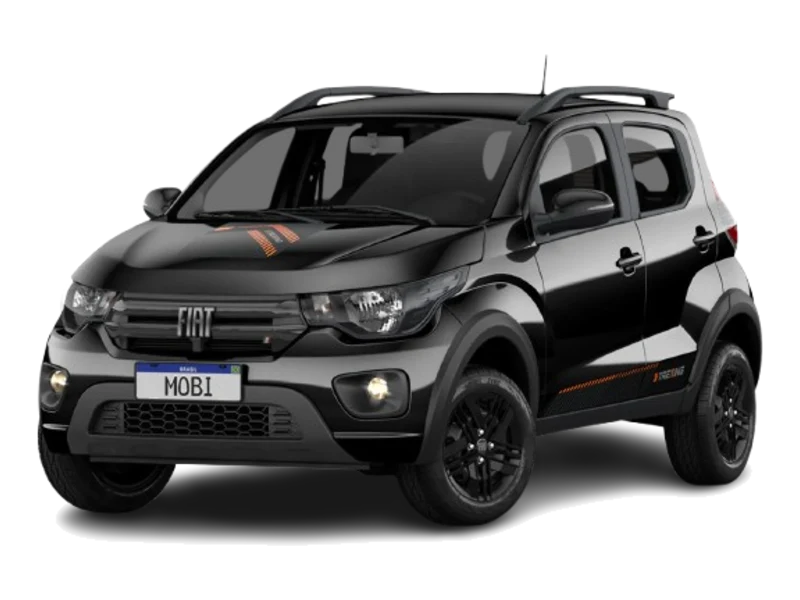
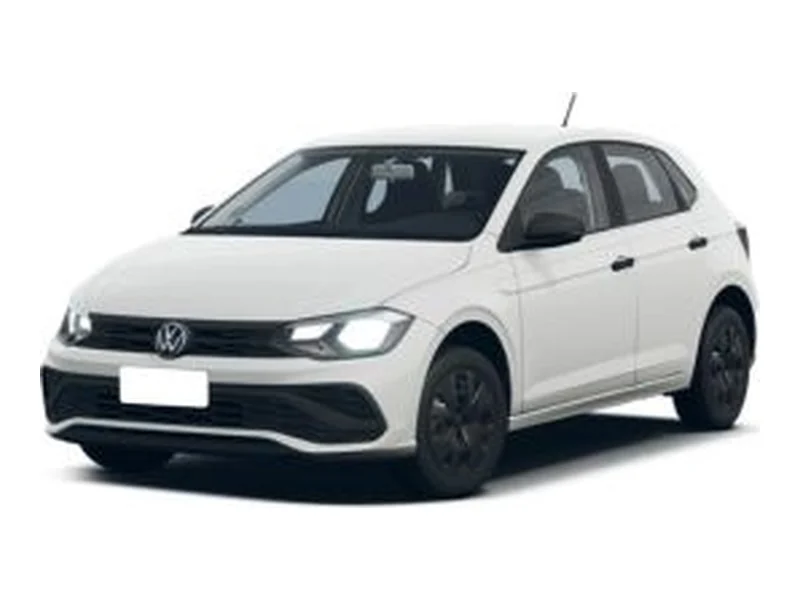
feat(frota): fotos do SGLOC por grupo, com modelo e categoria
O site passa a usar as fotos que a Locafacil cadastrou no sistema, uma por
grupo (Mobi, Polo, Onix Plus, Onix Plus, Strada, Basalt e Tera), em placa
branca no card: recortar carro branco de fundo branco num JPEG de 366x192
comia a lataria e deixava franja. Sao provisorias ate chegarem os originais
em alta.

Modelo e categoria de cada grupo moram em src/config/vehiclePhotos.js, porque
a loja real so manda "GRUPO - B". A legenda vira "Mobi ou similar", o rotulo
do card mostra a categoria e a descricao que so repete o nome do grupo some.
As fixtures passam a espelhar a loja real.

diff --git a/src/config/vehiclePhotos.js b/src/config/vehiclePhotos.js
@@ -1,25 +1,22 @@
-/* Foto por grupo de veículo.
+/* Foto e modelo de referência por grupo de veículo.
  *
- * A API da JCompany não devolve imagem: a disponibilidade traz código ACRISS,
- * descrição e preço, e nada de mídia. Então a foto é nossa.
+ * As fotos são as que a Locafácil cadastrou no SGLOC: a disponibilidade da API
+ * traz `VehicleURLPhoto` em cada grupo, e o modelo sai do nome do arquivo que
+ * está lá (mobi_pronto.jpg, polo_pronto.jpg...). A descrição do grupo na API é
+ * só "GRUPO - B", então o modelo mora aqui, junto da foto que o representa.
  *
- * O grupo manda no arquivo, não o modelo. A API diz "Kwid ou similar" — a foto
- * mostra o Kwid porque é o representante daquele grupo, e a legenda avisa que
- * é ilustrativa. D PLUS e G usam a mesma foto de propósito: as duas descrições
- * dizem "Pulse ou similar", e inventar carro diferente para cada uma seria
- * prometer o que o contrato não separa.
+ * São PROVISÓRIAS (reunião de 29/09/2026): no SGLOC elas têm 366×192, boas no
+ * celular e moles numa tela grande. Ficam sobre fundo branco, como chegaram —
+ * recortar carro branco de fundo branco num JPEG desse tamanho come a lataria
+ * e deixa franja no card escuro. Quando o Marcelo mandar os originais em alta:
  *
- * PARA TROCAR UMA FOTO
- *
- *   1. PNG com fundo branco ou transparente, carro em três quartos, em
- *      `public/__tmp-veiculos/<CODIGO>.png` (B, C, D, DP, E, G, GP).
+ *   1. PNG em `public/__tmp-veiculos/<CODIGO>.png` (B, C, D, DP, E, G, GP).
  *   2. `node scripts/converter-veiculos.mjs` — recorta a moldura vazia, apaga
  *      o fundo e normaliza tudo em 800×600 sobre transparente.
- *   3. Apague `public/__tmp-veiculos/`.
+ *   3. Apague `public/__tmp-veiculos/` e tire o `fundo: 'branco'` daqui.
  *
- * A normalização não é capricho: as fotos chegaram em 623×401, 667×374 e
- * 1100×628. Postas direto no card, cada uma ocuparia uma altura e a grade
- * dançaria de linha em linha.
+ * O grupo manda no arquivo, não o modelo: a reserva é por grupo, e a legenda
+ * avisa que a imagem é ilustrativa.
  */
 
 import grupoB from '../assets/veiculos/grupo-b.webp'
@@ -30,18 +27,19 @@ import grupoE from '../assets/veiculos/grupo-e.webp'
 import grupoG from '../assets/veiculos/grupo-g.webp'
 import grupoGP from '../assets/veiculos/grupo-gp.webp'
 
-/** Código do grupo (ACRISS) → foto. Grupo fora daqui cai na ilustração. */
+/** Código do grupo (ACRISS) → foto, modelo e categoria. A categoria cobre a
+    loja real, que não manda VehType. Grupo fora daqui cai na ilustração. */
 export const VEHICLE_PHOTOS = {
-  B: grupoB,   // Kwid ou similar
-  C: grupoC,   // Mobi ou similar
-  D: grupoD,   // Argo ou similar
-  DP: grupoDP, // Pulse ou similar
-  E: grupoE,   // Cronos ou similar
-  G: grupoG,   // Pulse ou similar
-  GP: grupoGP, // Fastback ou similar
+  B: { foto: grupoB, modelo: 'Mobi', categoria: 'Econômico', fundo: 'branco' },
+  C: { foto: grupoC, modelo: 'Polo', categoria: 'Hatch', fundo: 'branco' },
+  D: { foto: grupoD, modelo: 'Onix Plus', categoria: 'Sedã', fundo: 'branco' },
+  DP: { foto: grupoDP, modelo: 'Onix Plus', categoria: 'Sedã', fundo: 'branco' },
+  E: { foto: grupoE, modelo: 'Strada', categoria: 'Picape', fundo: 'branco' },
+  G: { foto: grupoG, modelo: 'Basalt', categoria: 'SUV', fundo: 'branco' },
+  GP: { foto: grupoGP, modelo: 'Tera', categoria: 'SUV', fundo: 'branco' },
 }
 
 export function photoFor(groupCode) {
   if (!groupCode) return null
-  return VEHICLE_PHOTOS[String(groupCode).toUpperCase()] ?? null
+  return VEHICLE_PHOTOS[String(groupCode).trim().toUpperCase()] ?? null
 }

diff --git a/src/content/documentacao.js b/src/content/documentacao.js
@@ -125,7 +125,7 @@ export const DADOS_TESTE = [
   },
   {
     tela: 'Veículo',
-    campos: [['Grupo', 'D — Argo ou similar']],
+    campos: [['Grupo', 'D — Onix Plus ou similar']],
     dica: 'Qualquer grupo funciona. O D fica no meio da tabela e deixa a diferença da proteção bem visível.',
   },
   {
@@ -230,13 +230,13 @@ export const ETAPAS = [
 ]
 
 export const GRUPOS = [
-  { codigo: 'B', perfil: 'Econômico 1.0 — Kwid ou similar', cambio: 'Manual', total: 260 },
-  { codigo: 'C', perfil: 'Econômico 1.0 — Mobi ou similar', cambio: 'Manual', total: 300 },
-  { codigo: 'D', perfil: 'Hatch 1.0 completo — Argo ou similar', cambio: 'Manual', total: 320 },
-  { codigo: 'D PLUS', perfil: 'Hatch 1.0 turbo — Pulse ou similar', cambio: 'Automático', total: 340 },
-  { codigo: 'E', perfil: 'Sedan 1.3 completo — Cronos ou similar', cambio: 'Manual', total: 380 },
-  { codigo: 'G', perfil: 'SUV compacto 1.0 turbo — Pulse ou similar', cambio: 'Automático', total: 380 },
-  { codigo: 'G PLUS', perfil: 'SUV 1.0 turbo completo — Fastback ou similar', cambio: 'Automático', total: 440 },
+  { codigo: 'B', perfil: 'Econômico — Mobi ou similar', cambio: 'Manual', total: 260 },
+  { codigo: 'C', perfil: 'Hatch — Polo ou similar', cambio: 'Manual', total: 300 },
+  { codigo: 'D', perfil: 'Sedã — Onix Plus ou similar', cambio: 'Manual', total: 320 },
+  { codigo: 'D PLUS', perfil: 'Sedã automático — Onix Plus ou similar', cambio: 'Automático', total: 340 },
+  { codigo: 'E', perfil: 'Picape — Strada ou similar', cambio: 'Manual', total: 380 },
+  { codigo: 'G', perfil: 'SUV automático — Basalt ou similar', cambio: 'Automático', total: 380 },
+  { codigo: 'G PLUS', perfil: 'SUV automático — Tera ou similar', cambio: 'Automático', total: 440 },
 ]
 
 export const PROTECOES = [
@@ -278,9 +278,9 @@ export const API_NAO_ENTREGA = [
     titulo: 'Foto do carro',
     responsavel: 'Resolvido por nós',
     linhas: [
-      ['O que falta', 'A reserva é por grupo, não por modelo, e o sistema não devolve imagem nenhuma.'],
-      ['Como resolvemos', 'Uma foto por grupo, do modelo que a própria descrição cita, com legenda avisando que é ilustrativa.'],
-      ['Observação', 'D PLUS e G usam a mesma foto de propósito: as duas descrições dizem “Pulse ou similar”.'],
+      ['O que falta', 'A reserva é por grupo, não por modelo. O sistema da loja devolve uma foto por grupo, mas pequena (366×192).'],
+      ['Como resolvemos', 'O site já usa as fotos que a Locafácil cadastrou no sistema, uma por grupo, com legenda avisando que é ilustrativa.'],
+      ['Observação', 'Boas no celular, moles numa tela grande. Com os originais em alta resolução, trocamos sem mexer em mais nada.'],
     ],
   },
   {
@@ -542,7 +542,7 @@ COMO TESTAR — DADOS FICTÍCIOS, TELA A TELA
 Pode clicar à vontade: nada vira reserva de verdade.
 
 1. Busca — Loja LOCAFACIL NOVA IGUAÇU, devolução no mesmo local. Retirada em 05/10/2026 às 09:00; devolução em 07/10/2026 às 09:00.
-2. Veículo — Grupo D (Argo ou similar).
+2. Veículo — Grupo D (Onix Plus ou similar).
 3. Proteção — escolha a Básico e depois troque para a Completa. É aqui o upsell: em duas diárias a proteção vai de R$ 60,00 para R$ 190,00, e a tela mostra o total mudar na hora.
 4. Dados do condutor — Joana Ribeiro · (21) 91234-5678 · joana.teste@example.com · CPF 529.982.247-25 · Rua das Palmeiras, 240 - Centro, Apto 402 · Nova Iguaçu/RJ.
 5. Revisão — marque "Li e aceito" e clique em Confirmar pré-reserva.

diff --git a/api/_lib/mockData.js b/api/_lib/mockData.js
@@ -22,15 +22,17 @@ export const mockMinimumNotice = { antecedencia_minima: 48 }
 export const mockMinimumPeriod = { periodo_minimo_horas: 48, tempo_informacao: 'horas' }
 
 // Totais observados para 2 diárias; a diária é derivada.
+// A descrição repete o nome do grupo, como a loja real manda ("GRUPO - B"):
+// o modelo de referência e a foto moram em src/config/vehiclePhotos.js.
 const GRUPOS = [
-  { code: 'B', nome: 'GRUPO - B', total2d: 260, transmissao: 'Manual', porte: 'Compacto', categoria: 'Econômico', descricao: 'Econômico 1.0 com Ar e Direção - Kwid ou similar' },
-  { code: 'C', nome: 'GRUPO - C', total2d: 300, transmissao: 'Manual', porte: 'Compacto', categoria: 'Econômico', descricao: 'Econômico 1.0 com Ar e Direção - Mobi ou similar' },
-  { code: 'D', nome: 'GRUPO - D', total2d: 320, transmissao: 'Manual', porte: 'Compacto', categoria: 'Hatch', descricao: 'Hatch 1.0 completo - Argo ou similar' },
-  { code: 'DP', nome: 'GRUPO - D PLUS', total2d: 340, transmissao: 'Automático', porte: 'Compacto', categoria: 'Hatch', descricao: 'Hatch 1.0 turbo automático - Pulse ou similar' },
-  { code: 'E', nome: 'GRUPO - E', total2d: 380, transmissao: 'Manual', porte: 'Médio', categoria: 'Sedan', descricao: 'Sedan 1.3 completo - Cronos ou similar' },
-  { code: 'G', nome: 'GRUPO - G', total2d: 380, transmissao: 'Automático', porte: 'Médio', categoria: 'SUV', descricao: 'SUV compacto 1.0 turbo - Pulse ou similar' },
-  { code: 'GP', nome: 'GRUPO - G PLUS', total2d: 440, transmissao: 'Automático', porte: 'Médio', categoria: 'SUV', descricao: 'SUV compacto 1.0 turbo completo - Fastback ou similar' },
-]
+  { code: 'B', nome: 'GRUPO - B', total2d: 260, transmissao: 'Manual', porte: 'Compacto', categoria: 'Econômico' },
+  { code: 'C', nome: 'GRUPO - C', total2d: 300, transmissao: 'Manual', porte: 'Compacto', categoria: 'Hatch' },
+  { code: 'D', nome: 'GRUPO - D', total2d: 320, transmissao: 'Manual', porte: 'Compacto', categoria: 'Sedã' },
+  { code: 'DP', nome: 'GRUPO - D PLUS', total2d: 340, transmissao: 'Automático', porte: 'Compacto', categoria: 'Sedã' },
+  { code: 'E', nome: 'GRUPO - E', total2d: 380, transmissao: 'Manual', porte: 'Médio', categoria: 'Picape' },
+  { code: 'G', nome: 'GRUPO - G', total2d: 380, transmissao: 'Automático', porte: 'Médio', categoria: 'SUV' },
+  { code: 'GP', nome: 'GRUPO - G PLUS', total2d: 440, transmissao: 'Automático', porte: 'Médio', categoria: 'SUV' },
+].map((grupo) => ({ ...grupo, descricao: grupo.nome }))
 
 // Diárias/dia observadas no portal, com as descrições longas de "Ver mais".
 const COBERTURAS = [

diff --git a/src/pages/Reservar/Veiculos/Index.jsx b/src/pages/Reservar/Veiculos/Index.jsx
@@ -6,6 +6,7 @@ import Footer from '../../../components/Footer/Index'
 import StepProgress from '../StepProgress'
 import TripSummary from '../TripSummary'
 import VehicleImage from '../VehicleImage'
+import { photoFor } from '../../../config/vehiclePhotos'
 import Dialog from '../Dialog'
 import Price from '../Price'
 import { useReservation } from '../../../context/ReservationContext'
@@ -287,14 +288,14 @@ export default function ReservarVeiculos() {
                 >
                   {visible.map((offer) => (
                     <motion.article key={offer.id} variants={fadeInUp} className="glass rounded-2xl p-6 flex flex-col">
-                      <p className="type-label text-text-secondary mb-2">{offer.category || 'Grupo'}</p>
+                      <p className="type-label text-text-secondary mb-2">{offer.category || photoFor(offer.groupCode)?.categoria || 'Grupo'}</p>
                       <h2 className="type-subtitle text-text-primary mb-4">{offer.groupName}</h2>
 
                       <div className="text-text-primary/80 mb-4 px-2">
                         <VehicleImage offer={offer} />
                       </div>
 
-                      <p className="type-meta text-text-secondary mb-5">{offer.description}</p>
+                      {offer.description && <p className="type-meta text-text-secondary mb-5">{offer.description}</p>}
 
                       <ul className="grid grid-cols-2 gap-x-3 gap-y-2.5 mb-6 type-meta text-text-secondary">
                         <li className="flex items-center gap-2">
@@ -394,7 +395,7 @@ function OfferDetails({ offer, days }) {
 
   return (
     <>
-      <p className="type-body text-text-muted text-sm mb-6">{offer.description}</p>
+      {offer.description && <p className="type-body text-text-muted text-sm mb-6">{offer.description}</p>}
 
       <h3 className="type-label text-text-muted mb-3">Características incluídas</h3>
       <dl className="grid grid-cols-2 gap-x-6 gap-y-2.5 mb-8">

diff --git a/src/pages/Reservar/VehicleImage.jsx b/src/pages/Reservar/VehicleImage.jsx
@@ -10,25 +10,28 @@ import { photoFor } from '../../config/vehiclePhotos'
  * este, então trocar ilustração por foto é editar um objeto — nenhuma tela
  * precisa saber qual dos dois está no ar.
  *
+ * Foto com fundo branco ganha uma placa branca arredondada: no card escuro,
+ * é ela que faz o fundo da foto parecer moldura e não um retângulo colado.
+ *
  * A legenda "imagem ilustrativa" acompanha os dois casos de propósito: a
  * reserva é por grupo, e nem a foto da frota garante o modelo que vai estar
  * no pátio no dia.
  */
 export default function VehicleImage({ offer, className = '', legenda = true }) {
-  const foto = photoFor(offer?.groupCode)
-  const porte = carroceriaDe(offer).nome
+  const cadastro = photoFor(offer?.groupCode)
+  const rotulo = cadastro?.modelo ? `${cadastro.modelo} ou similar` : carroceriaDe(offer).nome
 
   return (
     <figure className={className}>
-      {foto ? (
+      {cadastro ? (
         <img
-          src={foto}
+          src={cadastro.foto}
           alt=""
           width={800}
           height={600}
           loading="lazy"
           decoding="async"
-          className="w-full h-auto object-contain"
+          className={`w-full h-auto object-contain ${cadastro.fundo === 'branco' ? 'bg-white rounded-xl' : ''}`}
         />
       ) : (
         <VehicleArt offer={offer} />
@@ -38,8 +41,8 @@ export default function VehicleImage({ offer, className = '', legenda = true }) 
           carrega informação ("ilustrativa") e precisa de contraste de texto,
           não de enfeite. */}
       {legenda && (
-        <figcaption className="type-meta text-text-secondary text-center mt-1">
-          {porte} · imagem ilustrativa
+        <figcaption className="type-meta text-text-secondary text-center mt-2">
+          {rotulo} · imagem ilustrativa
         </figcaption>
       )}
     </figure>

diff --git a/api/_lib/otaNormalize.js b/api/_lib/otaNormalize.js
@@ -62,6 +62,7 @@ const BROKEN_WORDS = [
   [/Padr\?o/g, 'Padrão'],
   [/padr\?o/g, 'padrão'],
   [/Ju\?/g, 'Juí'],
+  [/Sed\?(?!\p{L})/gu, 'Sedã'],
   [/IGUA\?U/g, 'IGUAÇU'],
   [/Igua\?u/g, 'Iguaçu'],
 ]
@@ -228,11 +229,11 @@ function normalizeVehicle(vehicle = {}) {
   const groupName = fixText(makeModel.Name) || fixText(vehicle.Description) || groupCode
 
   // Quando a descrição é só o rótulo do grupo ("GRUPO - D"), repeti-la embaixo
-  // do título não diz nada; o motor diz.
+  // do título não diz nada; o motor diz. Sem motor, fica vazia e a tela omite.
   let description = fixText(vehicle.Description)
-  if (description === groupName && vehicle.MotorLiters) {
+  if (description === groupName) {
     const motor = fixText(vehicle.MotorType).toLowerCase()
-    description = `Motor ${fixText(vehicle.MotorLiters)}${motor ? ` ${motor}` : ''}`
+    description = vehicle.MotorLiters ? `Motor ${fixText(vehicle.MotorLiters)}${motor ? ` ${motor}` : ''}` : ''
   }
 
   return {

diff --git a/src/pages/Reservar/Revisao/Index.jsx b/src/pages/Reservar/Revisao/Index.jsx
@@ -107,7 +107,7 @@ export default function ReservarRevisao() {
                 </div>
                 <div className="min-w-0">
                   <p className="type-subtitle text-text-dark">{offer.groupName}</p>
-                  <p className="type-meta text-text-muted mt-1">{offer.description}</p>
+                  {offer.description && <p className="type-meta text-text-muted mt-1">{offer.description}</p>}
                   <p className="type-meta text-text-muted mt-1">
                     {offer.transmission} · {offer.passengers} pessoas · {offer.kmPolicy.label}
                   </p>

diff --git a/src/pages/Reservar/lib/carroceria.js b/src/pages/Reservar/lib/carroceria.js
@@ -42,7 +42,7 @@ const CARROCERIAS = {
    A ordem importa — "SUV compacto" tem as duas palavras, e SUV vence. */
 export function carroceriaDe(offer) {
   const texto = `${offer?.category ?? ''} ${offer?.description ?? ''} ${offer?.size ?? ''}`.toLowerCase()
-  if (/\bsuv\b|utilit|pick[- ]?up|crossover/.test(texto)) return CARROCERIAS.suv
+  if (/\bsuv\b|utilit|pick[- ]?up|picape|crossover/.test(texto)) return CARROCERIAS.suv
   if (/seda|sedã/.test(texto)) return CARROCERIAS.sedan
   return CARROCERIAS.hatch
 }
